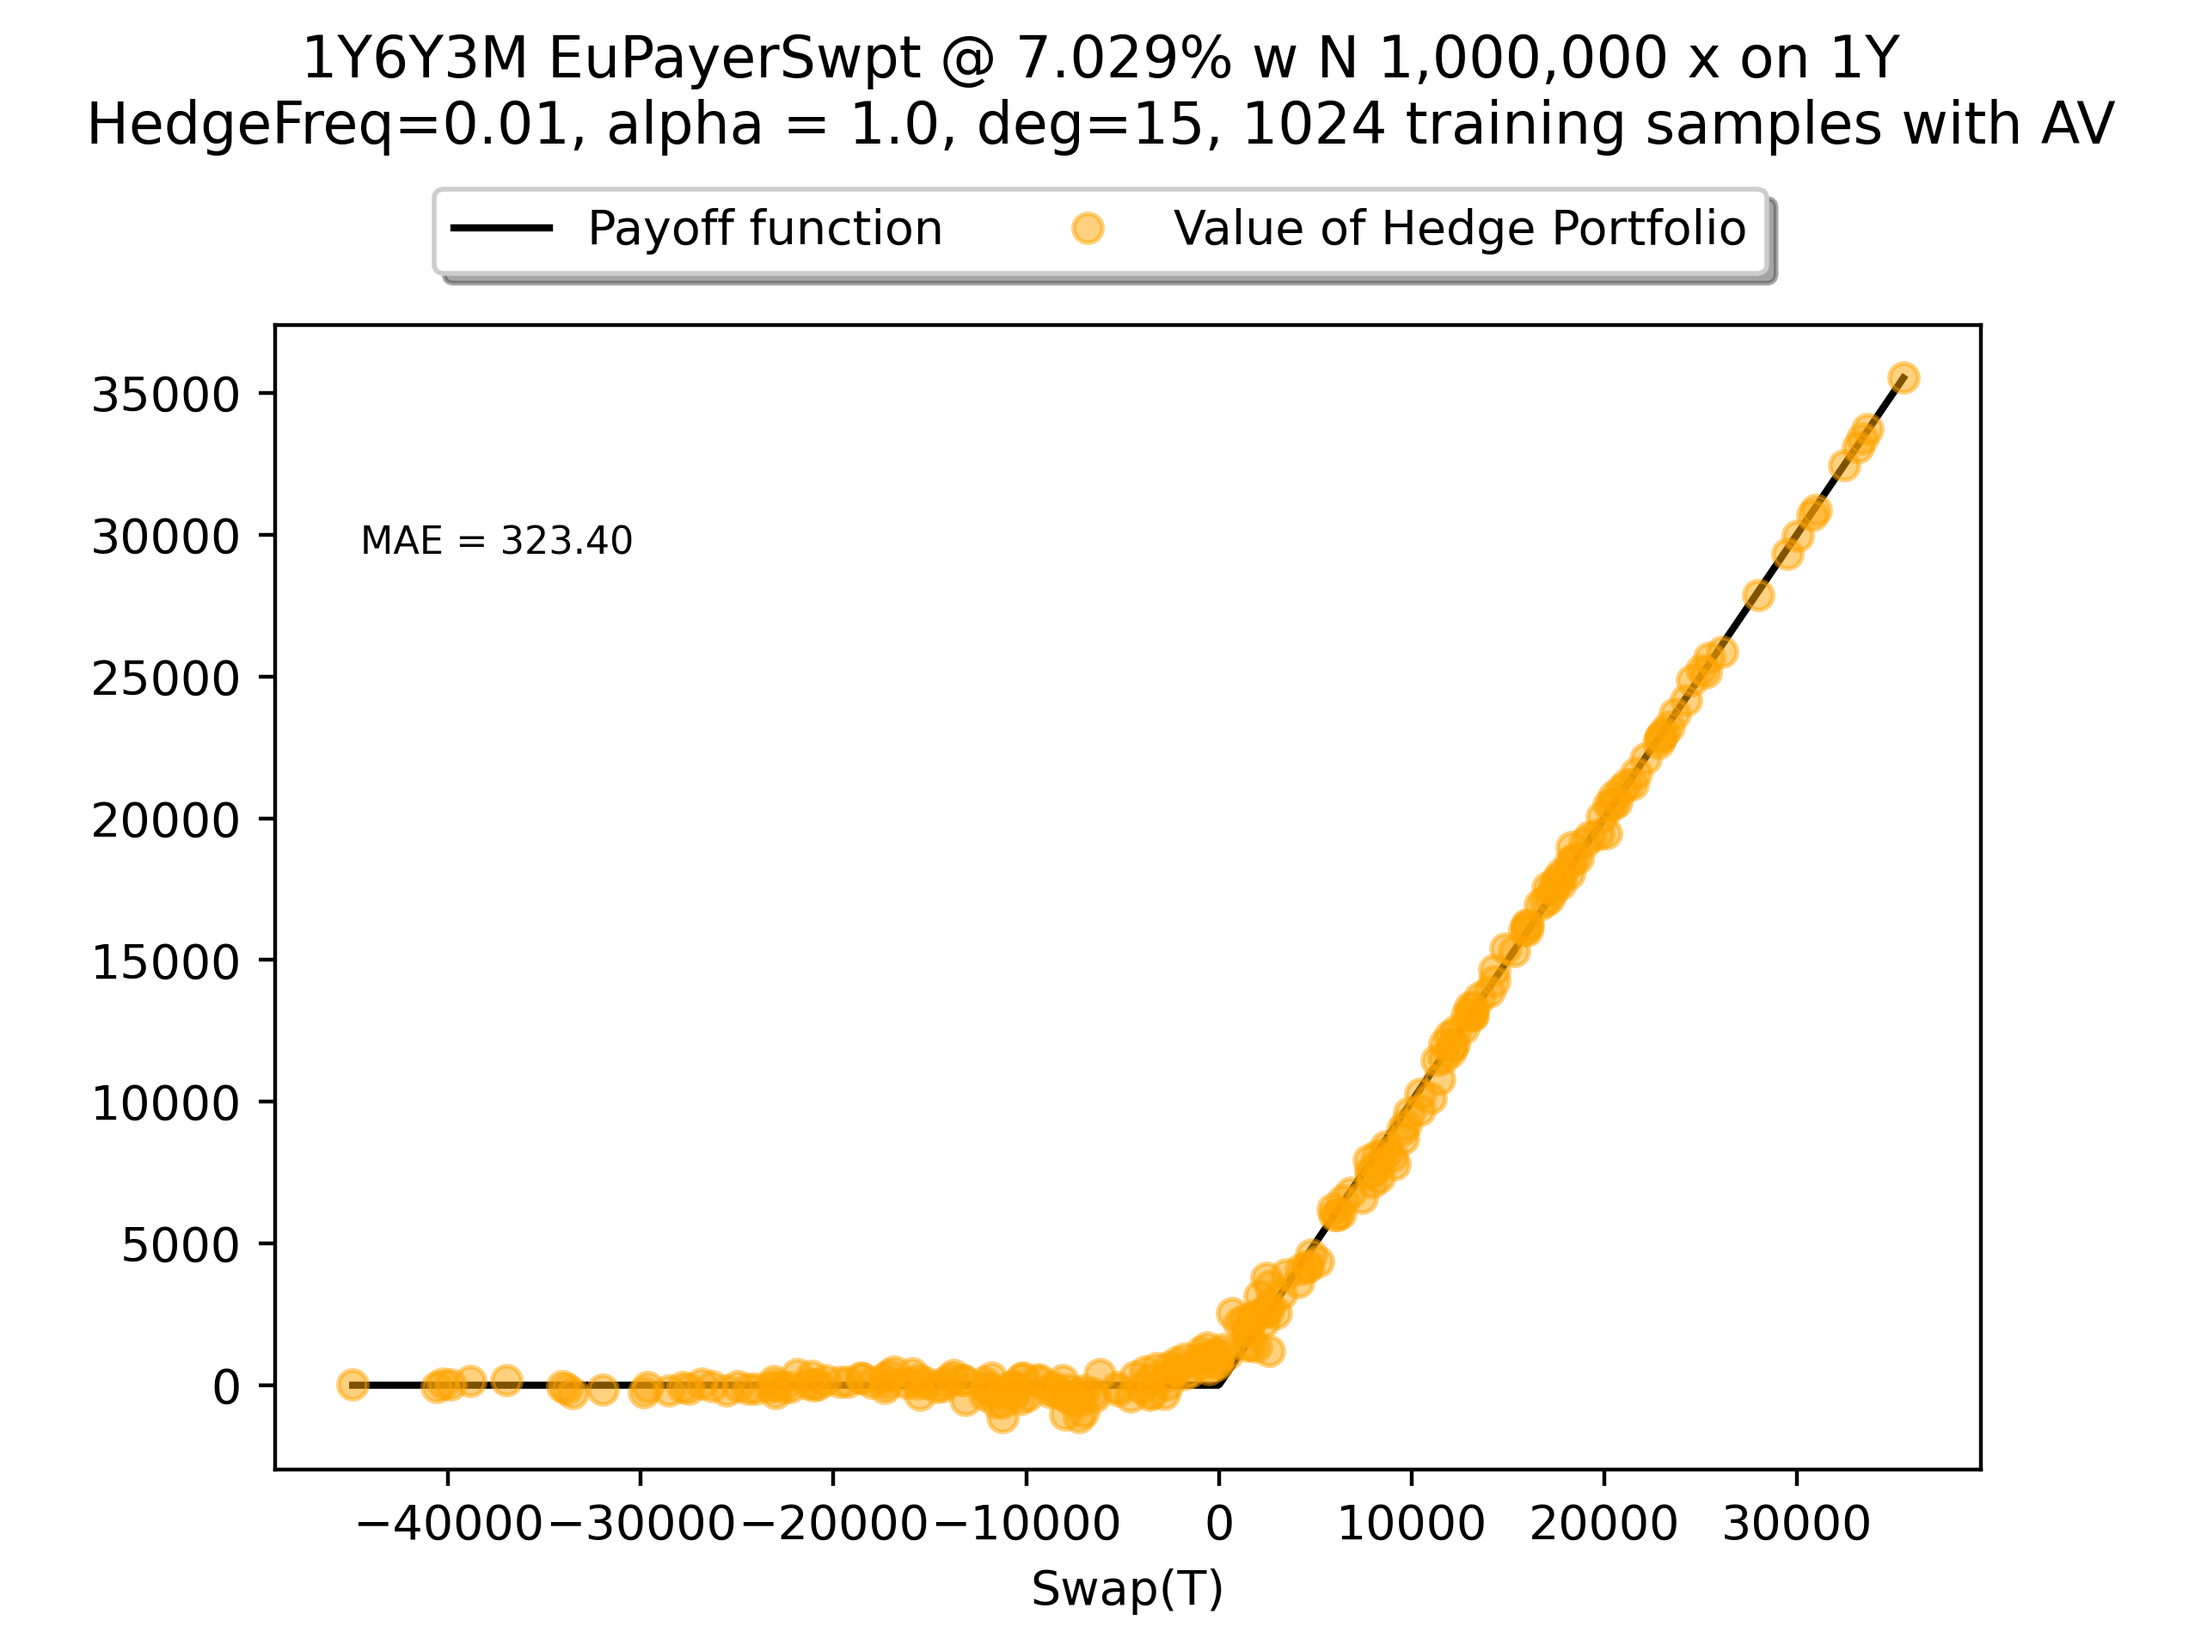
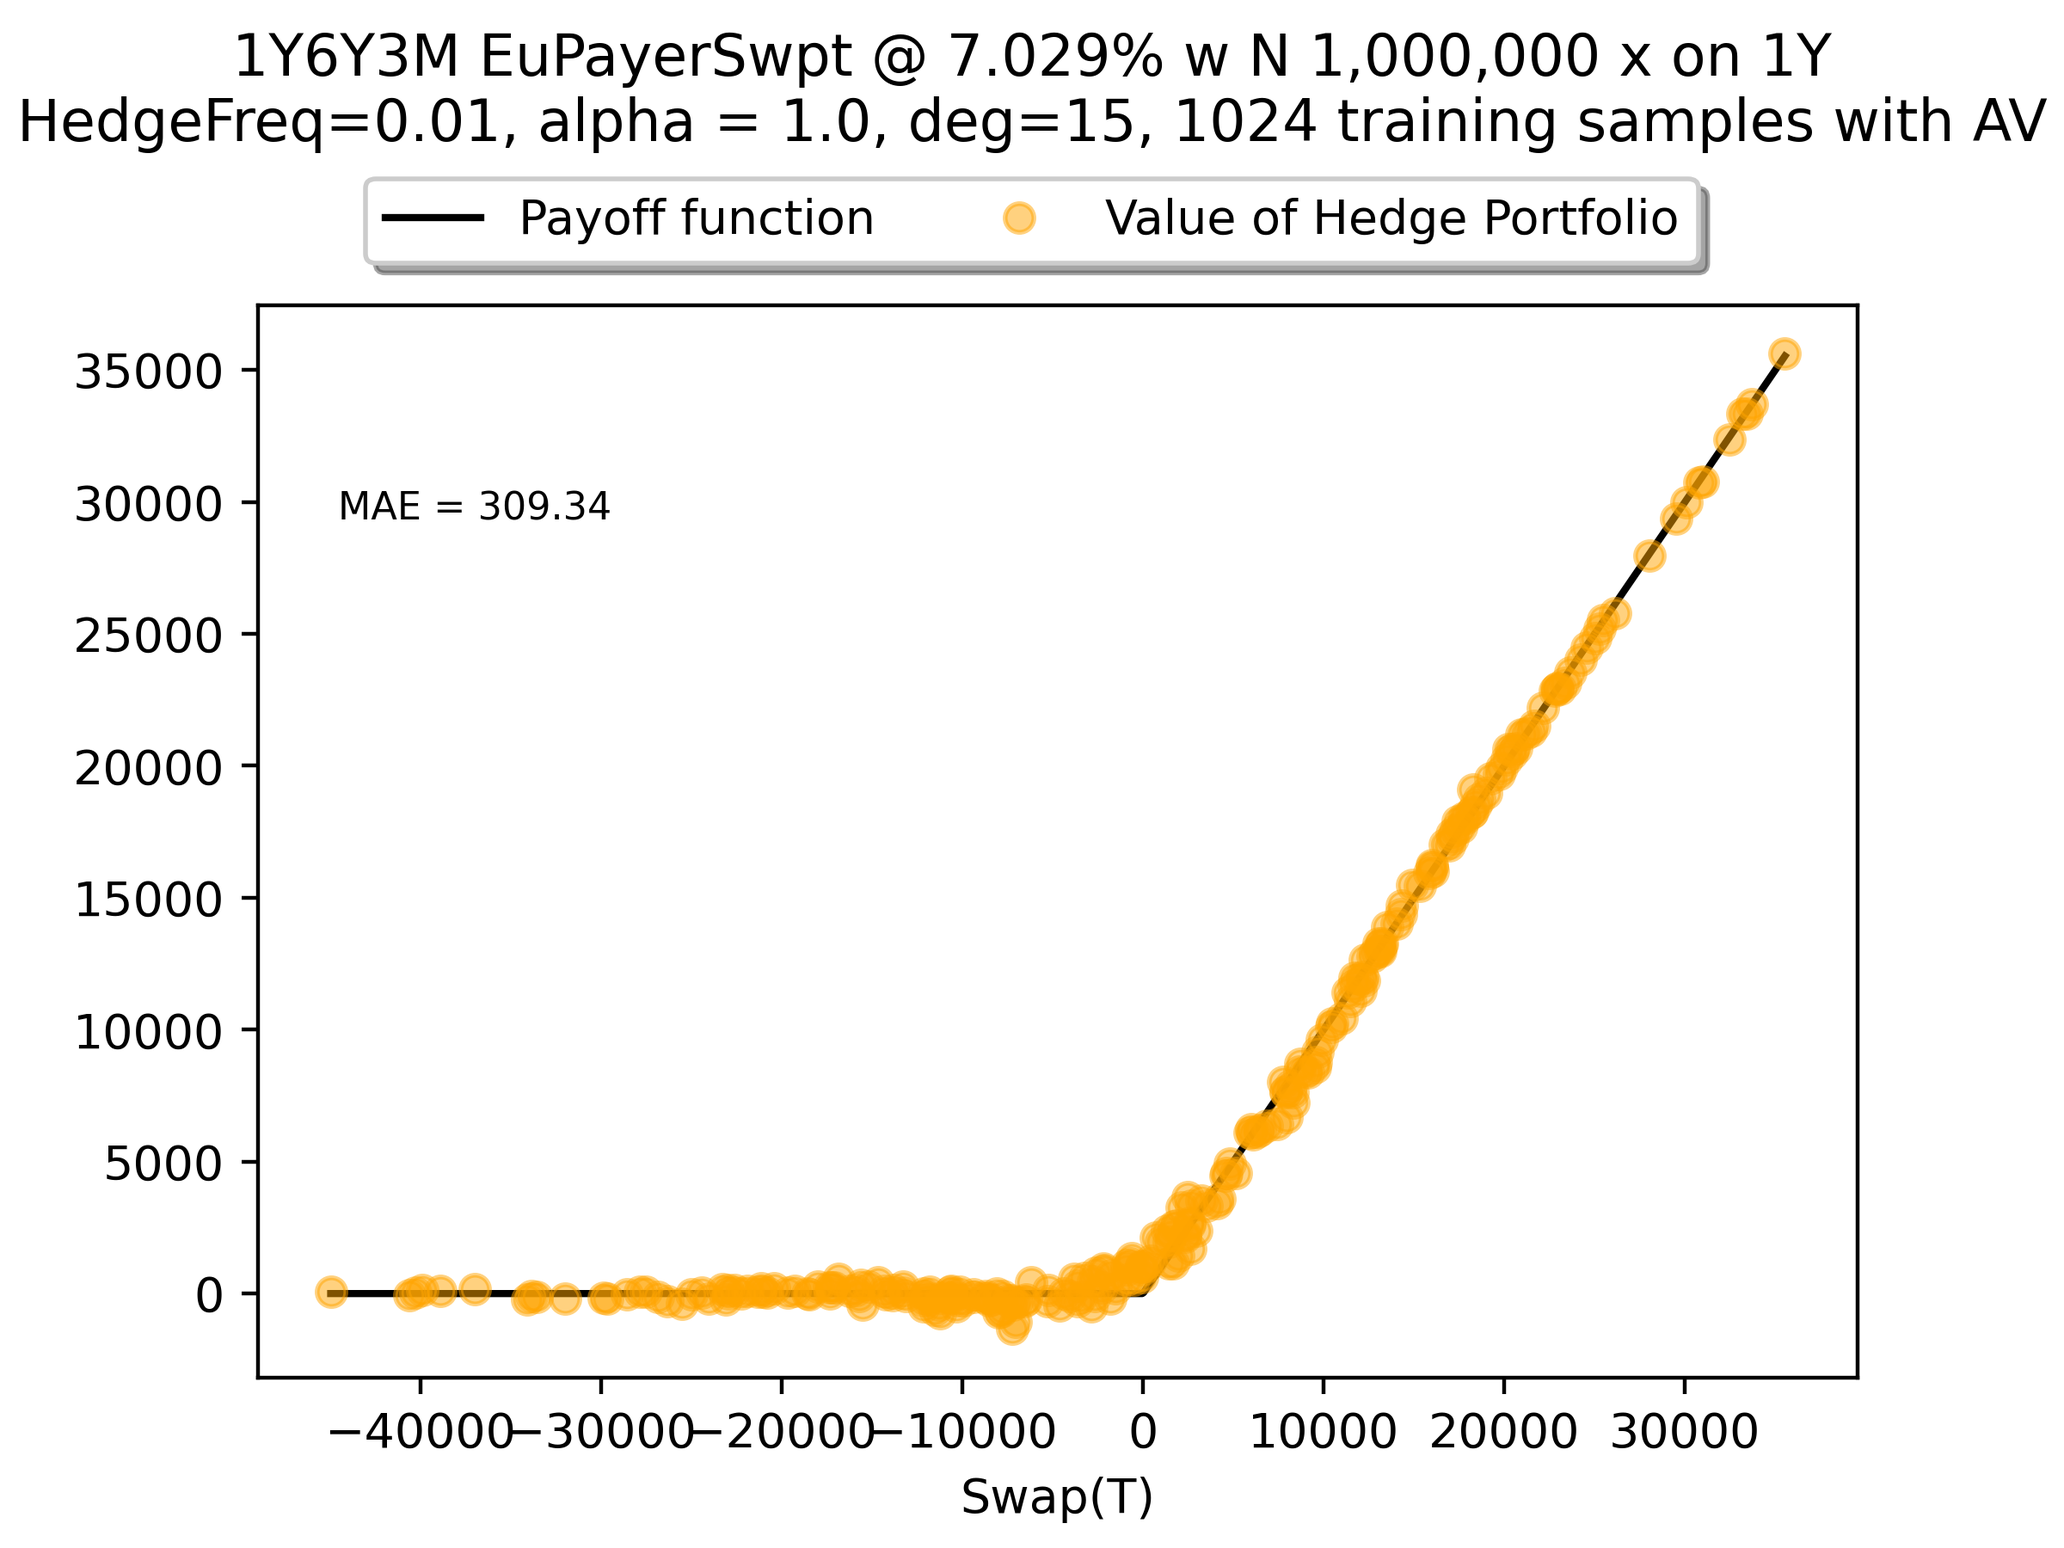
Completed delta hedge of experiment of Bermudan Payer Swaption

diff --git a/application/experiments/vasicek/hedge_experiments/DiffReg/vasicek_AAD_DiffReg_delta_hedge_BerPayerSwpt.py b/application/experiments/vasicek/hedge_experiments/DiffReg/vasicek_AAD_DiffReg_delta_hedge_BerPayerSwpt.py
@@ -20,10 +20,9 @@ torch.set_default_dtype(torch.float64)
 if __name__ == '__main__':
 
     seed = 1234
-    N_train = 1024
-    n_train = 1024  # TODO use this
-    N_test = 512
-    n = 25000
+    N_train = 1024  # TODO decide on this
+    N_test = 256
+    n = 5000
     use_av = True
 
     hedge_times = 500
@@ -203,45 +202,43 @@ if __name__ == '__main__':
                                        calc_dPrd_dr=calc_dPrd_dr, calc_dU_dr=calc_dswap_dr,
                                        diff_reg=diff_reg, use_av=use_av)[1]
             h_b = V - torch.sum(h_a * swap[:, mask], dim=1)
+        """
+        if k in (50, 150, 250, 350, 450):
+            if idx < 2:
+                fig, ax = plt.subplots(3 - idx)
+                for i in range(idx, 3):
+                    ax[i-idx].plot(swap[:, i], h_a[:, i-idx], 'o')
+                    ax[i-idx].set_ylabel(exerciseDates[i])
+                fig.suptitle(f't={t}')
+                plt.show()
+            else:
+                plt.plot(swap[:, idx], h_a.flatten(), 'o')
+                plt.title(f't={t}')
+                plt.show()
+        """
 
     """ Plot results """
+    MAE_value = torch.nanmean(torch.abs(vTe - max0(swapTe)))
+
     portPayoff = max0(swapTe)
     color = ['orange', 'blue', 'green']
     x = torch.linspace(float(torch.nansum(swapTe, dim=0).min()),
                        float(torch.nansum(swapTe, dim=0).max()),
                        1001)
-    plt.plot(x, max0(x), color='black')
+
+    fig, ax = plt.subplots(1, figsize=(6, 4))
+    ax.plot(x, max0(x), color='black', label='Payoff')
     for i, Te in enumerate(exerciseDates):
-        plt.plot(swapTe[i, :], vTe[i, :], 'o', color=color[i], alpha=0.5, label=float_to_time_str(Te))
+        ax.plot(swapTe[i, :], vTe[i, :], 'o', color=color[i], alpha=0.5, label=float_to_time_str(Te))
 
-    plt.legend()
-    plt.show()
-
-    """
-    MAE_value = torch.mean(torch.abs(V - max0(swap)))
-
-    av_str = 'with AV' if use_av else 'without AV'
-    
-    fig, ax = plt.subplots(1)
-    ax.plot(swapT, payoff_func, color='black', label='Payoff function')
-    ax.plot(swap, V, 'o', color='orange', label='Value of Hedge Portfolio', alpha=0.5)
-    ax.set_xlabel('Swap(T)')
     ax.text(0.05, 0.8, f'MAE = {MAE_value:,.2f}', fontsize=8, transform=ax.transAxes)
 
-    # Adjust size of plot
     box = ax.get_position()
-    ax.set_position([box.x0, box.y0, box.width, box.height * 0.9])
+    ax.set_position([box.x0, box.y0, box.width, box.height * 0.85])
+    ax.set_xlabel('Swap @ Exercise date')
 
-    # Title
-    fig.suptitle(prd.name + f'\nHedgeFreq={dTL[1]:.4g}, alpha = {alpha}, deg={deg}, {N_train} training samples ' + av_str)
+    fig.suptitle('Replicating payoff of Bermudan Payer Swaption')
+    fig.legend(title='Exercise date', loc='upper center', ncol=4, fancybox=True, shadow=True, bbox_to_anchor=(0.5, 0.925))
 
-    # Legend
-    handles, labels = fig.gca().get_legend_handles_labels()
-    by_label = dict(zip(labels, handles))
-    fig.legend(by_label.values(), by_label.keys(), loc='upper center', ncol=2, fancybox=True, shadow=True,
-               bbox_to_anchor=(0.5, 0.90))
-
-    #plt.savefig(get_plot_path('vasicek_AAD_DiffReg_delta_hedge_EuPayerSwpt.png'), dpi=400)
+    plt.savefig(get_plot_path('07_Diff_reg_bermudan_delta_hedge.png'), dpi=400)
     plt.show()
-    """
-

diff --git a/application/experiments/vasicek/hedge_experiments/DiffReg/vasicek_AAD_DiffReg_delta_hedge_EuPayerSwpt.py b/application/experiments/vasicek/hedge_experiments/DiffReg/vasicek_AAD_DiffReg_delta_hedge_EuPayerSwpt.py
@@ -20,7 +20,7 @@ if __name__ == '__main__':
     N_test = 256
     use_av = True
 
-    hedge_times = 100
+    hedge_times = 500
 
     r0_min = 0.02
     r0_max = 0.12
@@ -28,9 +28,9 @@ if __name__ == '__main__':
     r0_vec = torch.linspace(r0_min, r0_max, N_train)
 
     # Setup Differential Regressor, and Scalar
-    deg = 15
+    deg = 9
     alpha = 1.0
-    diff_reg = DifferentialPolynomialRegressor(deg=deg, alpha=alpha, use_SVD=True, bias=True)
+    diff_reg = DifferentialPolynomialRegressor(deg=deg, alpha=alpha, use_SVD=True, bias=True, include_interactions=True)
 
     # Model specification
     r0 = torch.linspace(r0_min, r0_max, N_test)
@@ -44,7 +44,7 @@ if __name__ == '__main__':
     rng = RNG(seed=seed, use_av=use_av)
 
     # Product specification
-    exerciseDate = torch.tensor(1.0)
+    exerciseDate = torch.tensor(5.0)
     delta = torch.tensor(0.25)
     swapFirstFixingDate = exerciseDate
     swapLastFixingDate = exerciseDate + torch.tensor(5.0)

diff --git a/application/experiments/vasicek/unit_tests/vasicek_calc_swap_atm.py b/application/experiments/vasicek/unit_tests/vasicek_calc_swap_atm.py
@@ -1,0 +1,26 @@
+from application.engine.vasicek import Vasicek
+import torch
+
+torch.set_default_dtype(torch.float64)
+
+
+if __name__ == '__main__':
+    a = torch.tensor(0.86)
+    b = torch.tensor(0.09)
+    sigma = torch.tensor(0.0148)
+    r0 = torch.tensor(0.08)
+
+    measure = 'risk_neutral'
+
+    mdl = Vasicek(a=a, b=b, sigma=sigma, r0=r0, use_ATS=False, use_euler=False, measure=measure)
+
+    delta = torch.tensor(0.25)
+    swapFirstFixingDate = torch.tensor(1.0)
+    swapLastFixingDate = torch.tensor(6.0)
+    notional = torch.tensor(1E6)
+    t = torch.linspace(float(swapFirstFixingDate),
+                       float(swapLastFixingDate),
+                       int((swapLastFixingDate - swapFirstFixingDate) / delta + 1))
+
+    swap_rate = mdl.calc_swap_rate(r0, t, delta)
+    swap = mdl.calc_swap(r0, t, delta, swap_rate, notional)
